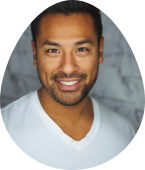
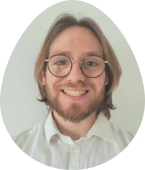
Ajout calendly + maj photo about

diff --git a/parlons-bilingue/src/app/components/contact/contact.component.html b/parlons-bilingue/src/app/components/contact/contact.component.html
@@ -6,7 +6,7 @@
   </div>
 
   <div
-    class="w-[650px] h-[530px] relative bg-white rounded-[50px] left-[330px] top-[50px]"
+    class="w-[650px] h-[730px] relative bg-white rounded-[50px] left-[330px] top-[50px]"
   >
     <div
       class="pl-[18px] pr-9 pt-px left-[100px] top-[10px] absolute bg-white align-middle rounded-[20px] border-2 border-blue justify-start items-center inline-flex"
@@ -17,11 +17,12 @@
         Planifiez votre séance
       </div>
     </div>
+    <!-- Début de widget en ligne Calendly -->
     <div
-      class="pb-[10px] left-[40px] top-[50px] absolute justify-start items-center inline-flex"
-    >
-      <!-- Calendly -->
-    </div>
+      class="calendly-inline-widget w-[600px] h-[500px] relative top-[150px]"
+      data-url="https://calendly.com/parlonsbilingue"
+    ></div>
+    <!-- Fin de widget en ligne Calendly -->
   </div>
   <div
     class="w-[750px] h-[800px] relative bg-white rounded-[50px] left-[280px] top-[150px]"
@@ -62,7 +63,7 @@
                 id="name"
                 formControlName="name"
                 required
-                class="w-[152px] h-[67px] pl-[19px] pr-[29px] py-3 bg-opacity-40 rounded-[20px] justify-start items-center inline-flex bg-blue outline-none text-primary border-none focus:border-none text-xl font-normal font-['Inter']"
+                class="w-[152px] h-[50px] pl-[19px] pr-[29px] py-3 bg-opacity-40 rounded-[20px] justify-start items-center inline-flex bg-blue outline-none text-primary border-none focus:border-none text-sm font-normal font-['Inter']"
               />
             </div>
           </div>
@@ -76,7 +77,7 @@
                 id="email"
                 formControlName="email"
                 required
-                class="w-[200px] h-[67px] pl-[19px] pr-[29px] py-3 bg-opacity-40 rounded-[20px] justify-start items-center inline-flex bg-blue outline-none text-primary border-none focus:border-none text-lg font-normal font-['Inter']"
+                class="w-[200px] h-[50px] pl-[19px] pr-[29px] py-3 bg-opacity-40 rounded-[20px] justify-start items-center inline-flex bg-blue outline-none text-primary border-none focus:border-none text-sm font-normal font-['Inter']"
               />
             </div>
           </div>
@@ -91,7 +92,7 @@
               id="subject"
               formControlName="subject"
               required
-              class="w-[370px] h-[67px] pl-[19px] pr-[29px] py-3 bg-opacity-40 rounded-[20px] justify-start items-center inline-flex bg-blue outline-none text-primary border-none focus:border-none text-lg font-normal font-['Inter']"
+              class="w-[370px] h-[50px] pl-[19px] pr-[29px] py-3 bg-opacity-40 rounded-[20px] justify-start items-center inline-flex bg-blue outline-none text-primary border-none focus:border-none text-sm font-normal font-['Inter']"
             />
           </div>
         </div>

diff --git a/parlons-bilingue/src/app/components/about/about.component.html b/parlons-bilingue/src/app/components/about/about.component.html
@@ -6,20 +6,21 @@
       >formateur</span
     >
   </div>
-  <div class="w-auto h-[600px] left-20 pt-20 flex flex-row relative">
+  <div class="w-auto h-[700px] left-20 pt-20 flex flex-row relative">
     <div
-      class="relative w-[300px] h-[300px] left-[50px] grow-0 pt-10 pb-[33px] border-2 bg-primary border-blue flex-col justify-end items-center gap-[51px] inline-flex"
+      class="relative w-[300px] h-[400px] left-[50px] grow-0 pt-10 pb-[33px] border-2 bg-white border-blue flex-col justify-end items-center gap-[51px] inline-flex"
     >
-      <div class="w-32 h-56 overflow-hidden rounded-t-full">
+      <div class="w-44 h-64 pl-4 overflow-hidden">
         <img
-          src="../../../assets/imgs/Eddy.jpg"
+          src="../../../assets/imgs/Avatar.png"
           alt="Avatar"
-          class="w-full h-full object-cover"
+          class="w-[180px] h-auto object-fill"
         />
       </div>
-      <div class="w-[209px] h-[32px] relative text-center">
-        <span class="text-white text-2xl font-bold font-space">Eddy<br /></span
-        ><span class="text-white text-xl font-normal font-baskerIta"
+      <div class="w-[209px] h-auto relative text-center">
+        <span class="text-primary text-2xl font-bold font-space"
+          >Eddy<br /></span
+        ><span class="text-primary text-xl font-normal font-baskerIta"
           >formateur expérimenté</span
         >
       </div>

diff --git a/parlons-bilingue/src/index.html b/parlons-bilingue/src/index.html
@@ -9,5 +9,12 @@
   </head>
   <body class="min-h-screen overflow-x-hidden relative bg-primary">
     <app-root></app-root>
+    <!-- Début de widget en ligne Calendly -->
+    <script
+      type="text/javascript"
+      src="https://assets.calendly.com/assets/external/widget.js"
+      async
+    ></script>
+    <!-- Fin de widget en ligne Calendly -->
   </body>
 </html>
